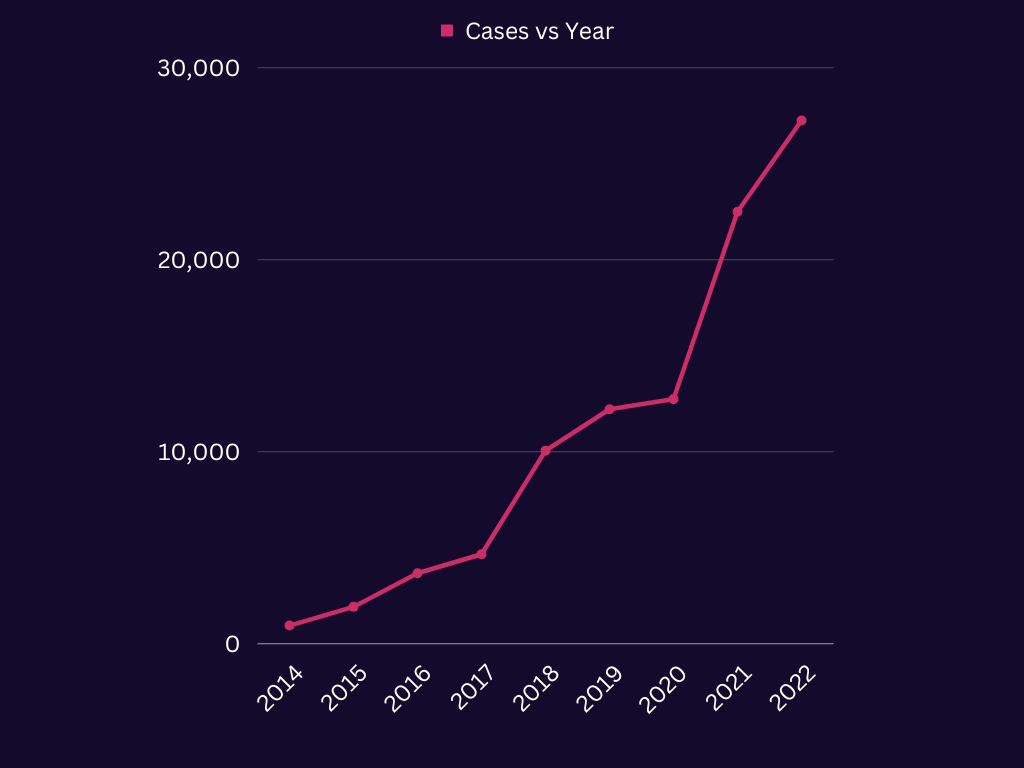
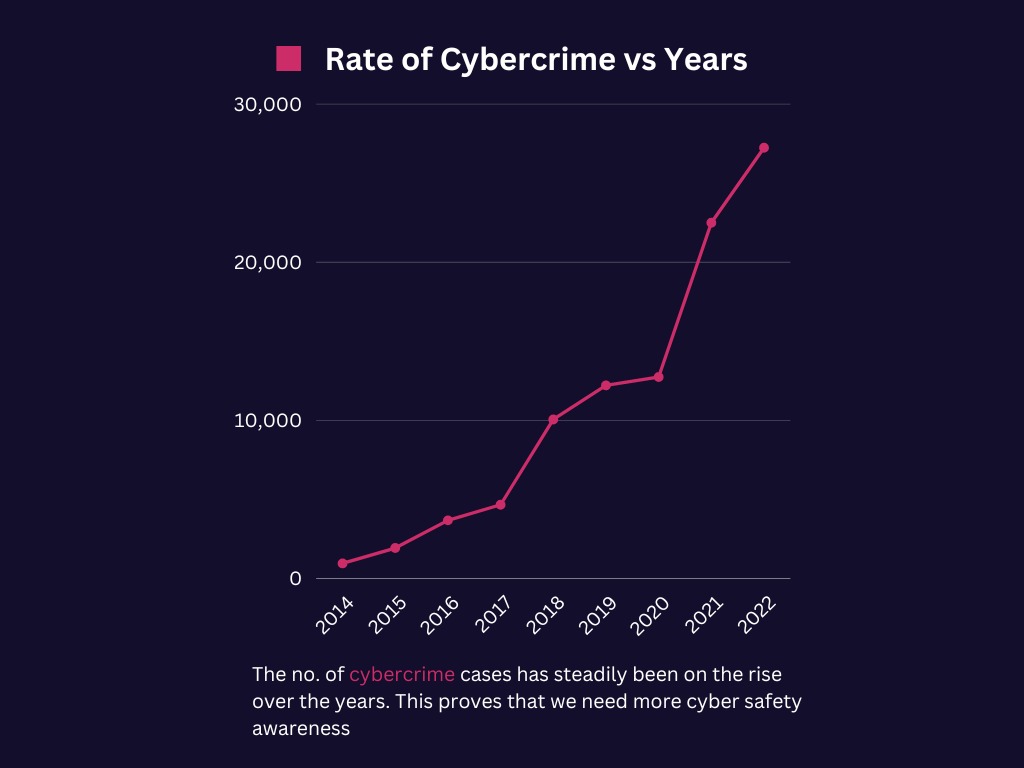
Updated Graph, added card, changed review css

diff --git a/StyleSheet/review.css b/StyleSheet/review.css
@@ -1,81 +1,81 @@
 body {
-	background-color: #120e2b;
+    background-color: #120e2b;
 }
 .title {
-	margin: 10rem auto 5rem auto;
-	align-items: center;
+    margin: 10rem auto 5rem auto;
+    align-items: center;
 }
 h1 {
-	text-align: center;
-	color: aliceblue;
+    text-align: center;
+    color: aliceblue;
 }
 p,
 h5 {
-	color: aliceblue;
+    color: aliceblue;
 }
 .content {
-	display: flex;
-	flex-wrap: wrap;
-	padding: 0 5rem;
-	overflow-y: unset;
-	justify-content: space-between;
+    display: flex;
+    flex-wrap: wrap;
+    padding: 0 5rem;
+    overflow-y: unset;
+    justify-content: space-between;
 }
 .cards {
-	display: flex;
-	flex-direction: column;
-	align-items: center;
-	text-align: center;
-	background-color: #cc2c67;
-	border-radius: 50px;
-	width: 270px;
-	margin: 2rem;
-	overflow: hidden;
-	height: 400px;
+    display: flex;
+    flex-direction: column;
+    align-items: center;
+    text-align: center;
+    background-color: #cc2c67;
+    border-radius: 50px;
+    width: 300px;
+    margin: 1rem;
+    overflow: hidden;
+    height: 400px;
 }
 #rating {
-	padding: 1rem;
-	border-radius: 10px;
-	display: inline-block;
-	background-color: #f97169;
+    padding: 1rem;
+    border-radius: 10px;
+    display: inline-block;
+    background-color: #f97169;
 }
 h5 {
-	padding-top: 2rem;
-	padding-bottom: 2rem;
+    padding-top: 2rem;
+    padding-bottom: 2rem;
 }
 .image-container {
-	height: 40%;
-	width: 100%;
-	overflow: hidden;
+    height: 40%;
+    width: 100%;
+    overflow: hidden;
 }
 #card-img {
-	height: 22vh;
-	width: 100%;
-	object-fit: cover;
+    height: 22vh;
+    width: 100%;
+    object-fit: cover;
 }
 .intro {
-	position: absolute;
-	width: 270px;
-	height: 0px;
-	font-size: medium;
-	box-sizing: border-box;
-	background: rgb(27, 27, 27, 0.9);
-	color: white;
-	border-radius: 50px;
-	transition: 0.5s;
-	backdrop-filter: blur(10px);
+    position: absolute;
+    width: 300px;
+    height: 0px;
+    font-size: medium;
+    box-sizing: border-box;
+    background: rgb(27, 27, 27, 0.9);
+    color: white;
+    border-radius: 50px;
+    transition: 0.5s;
+    backdrop-filter: blur(10px);
 }
 .card:hover {
-	cursor: pointer;
+    cursor: pointer;
 }
 .intro p {
-	visibility: hidden;
-	opacity: 0;
+    visibility: hidden;
+    opacity: 0;
 }
 .cards:hover .intro {
-	height: 400px;
-	padding: 2rem;
+    height: 400px;
+    padding: 2rem;
 }
 .cards:hover .intro p {
-	opacity: 1;
-	visibility: visible;
+    opacity: 1;
+    visibility: visible;
 }

diff --git a/Script/review.js b/Script/review.js
@@ -34,6 +34,12 @@ data = [
 		rating: "9",
 		text:"Burp or Burp Suite is a set of tools used for penetration testing of web applications. It is developed by the company named Portswigger, which is also the alias of its founder Dafydd Stuttard. BurpSuite aims to be an all in one set of tools and its capabilities can be enhanced by installing add-ons that are called BApps.",
 	},
+	{   image:"./Assets/reviewCard8.png",
+		name: "Wireshark",
+		rating: "9",
+		text:"Wireshark is a free and open-source packet analyzer. It is used for network troubleshooting, analysis, software and communications protocol development, and education.",
+		
+	},
 ];
 
 data.forEach((element, i) => {

diff --git a/homepage.php b/homepage.php
@@ -36,7 +36,7 @@ if (isset($_SESSION['loggedIn']) && $_SESSION['loggedIn'] === true) {
 					Are you cyber safe ?
 				</h1>
 				<br />
-				<img src="./Assets/graph.png" height="70%" width="70%" />
+				<img src="./Assets/graph.png" height="60%" width="90%" />
 			</div>
 		</div>
 		<h1>What is cyber safety ?</h1>
